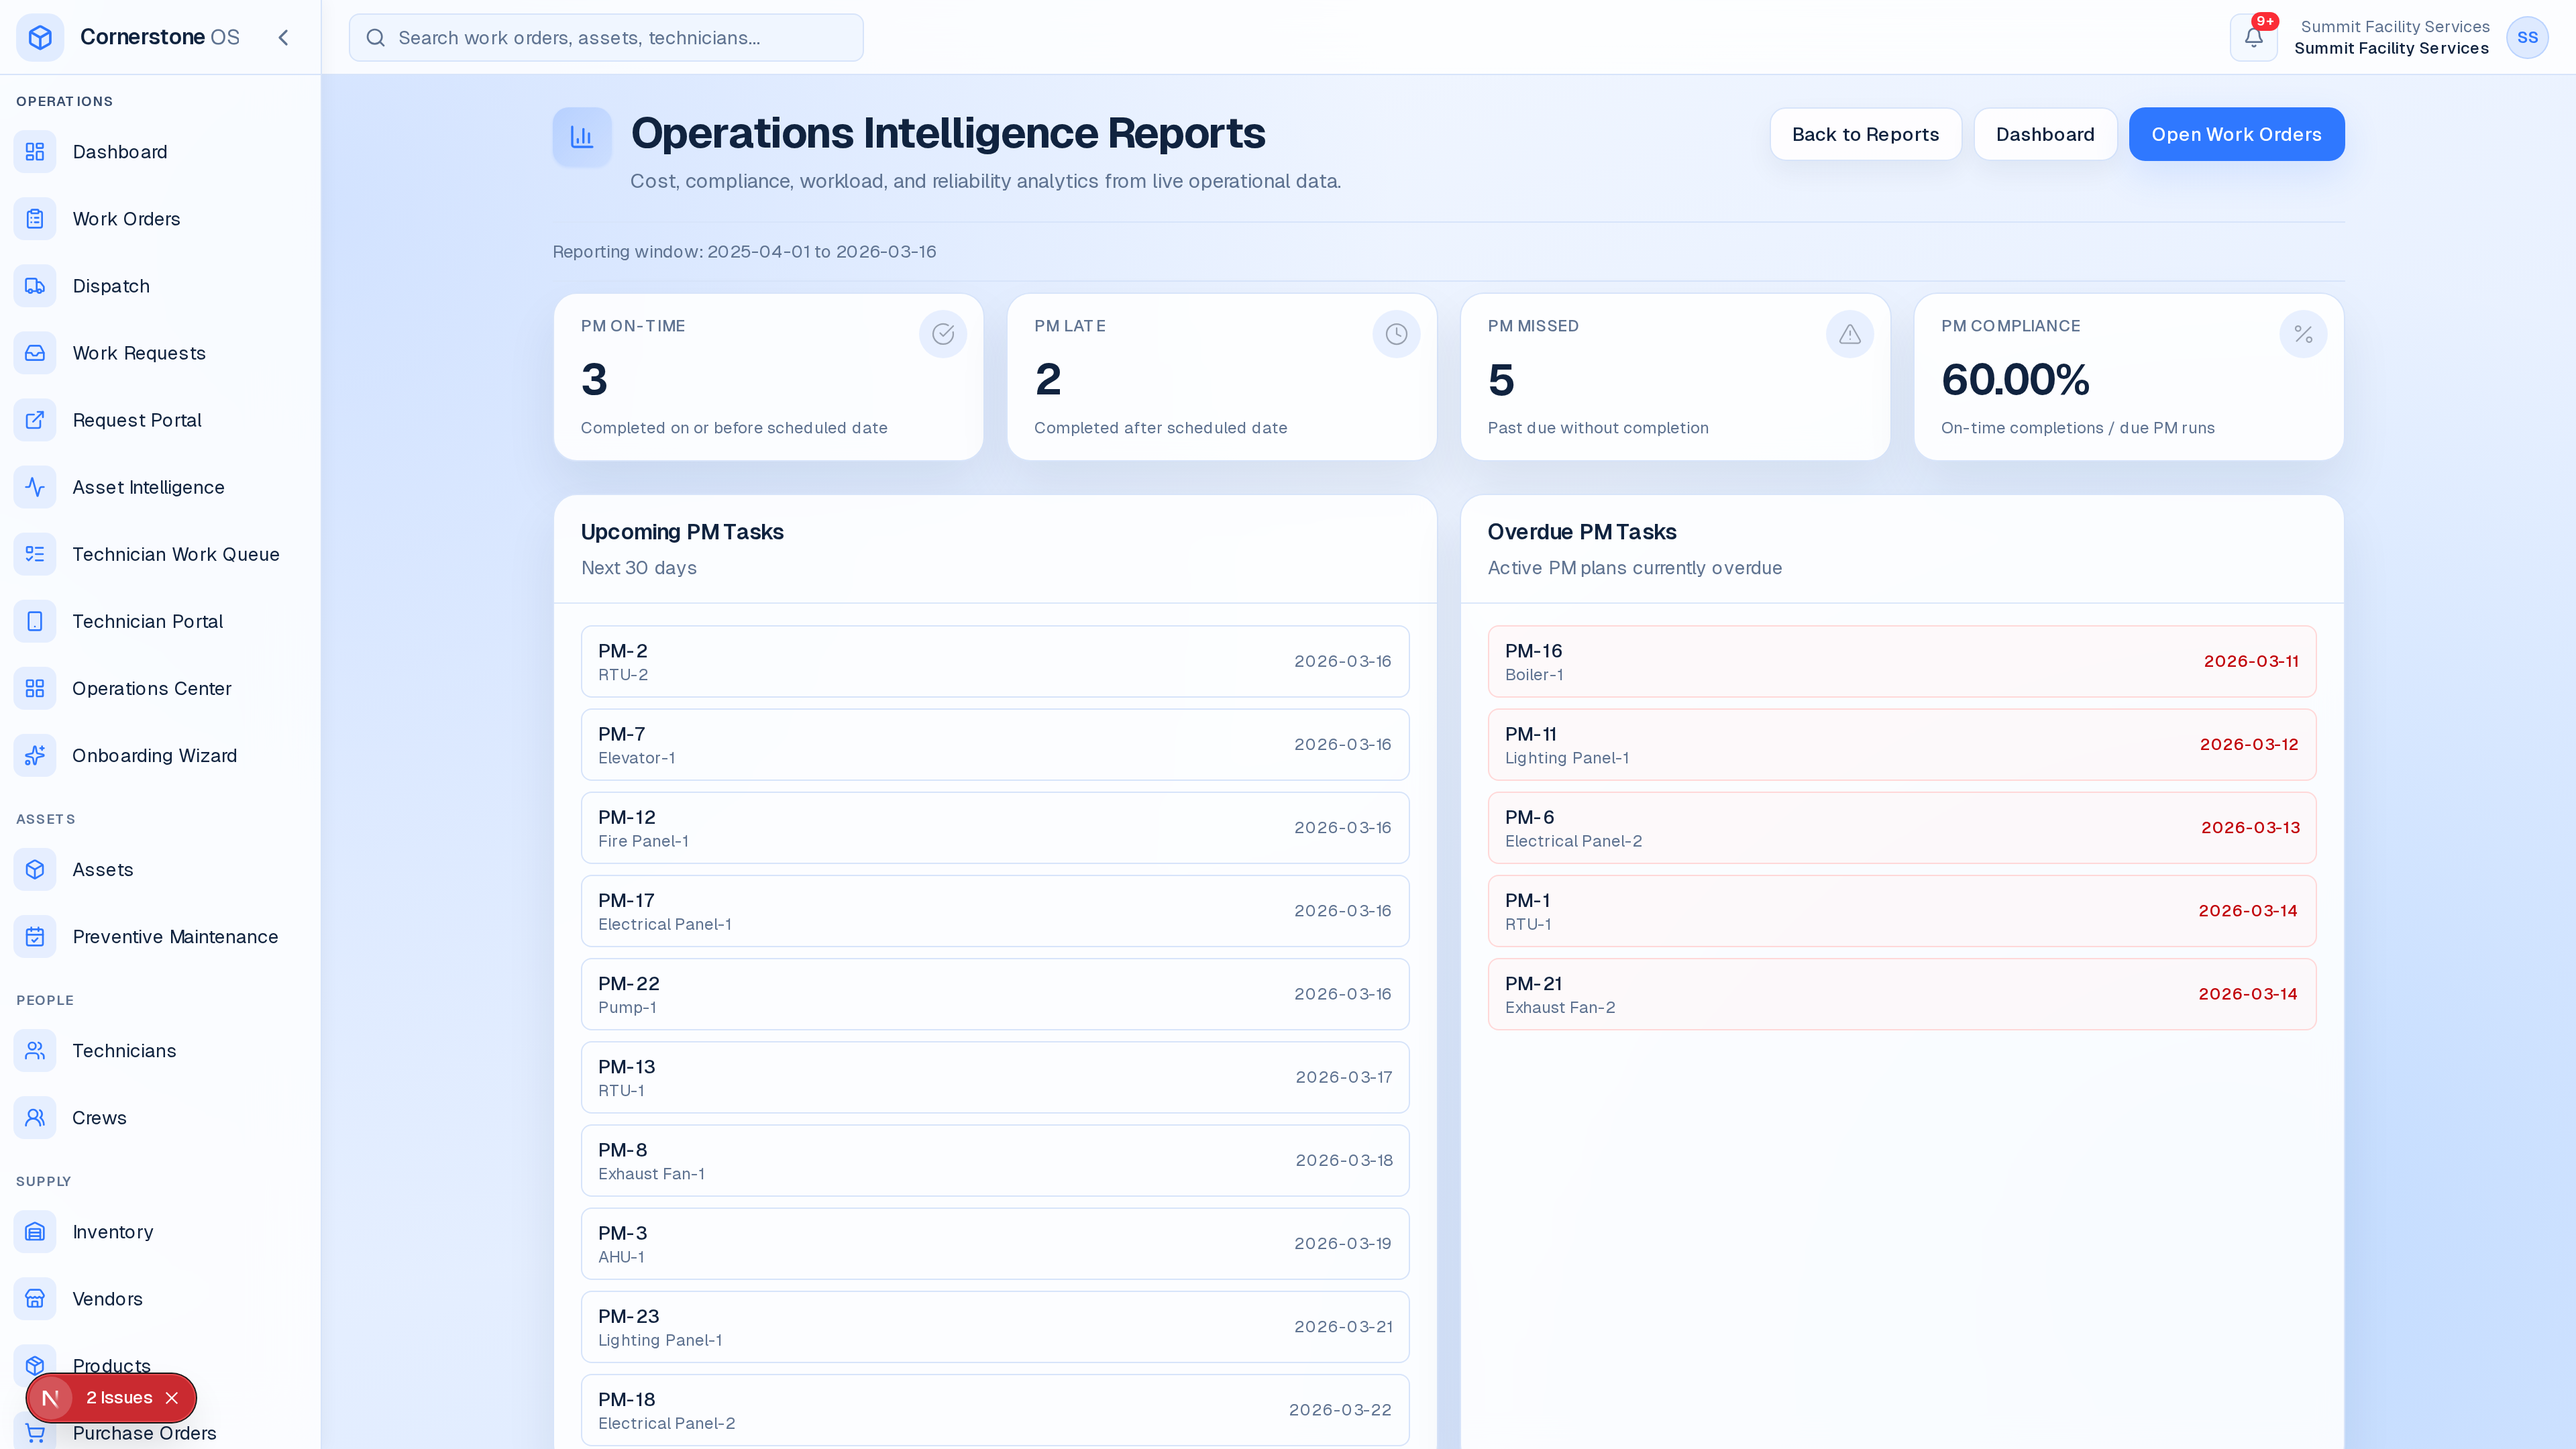
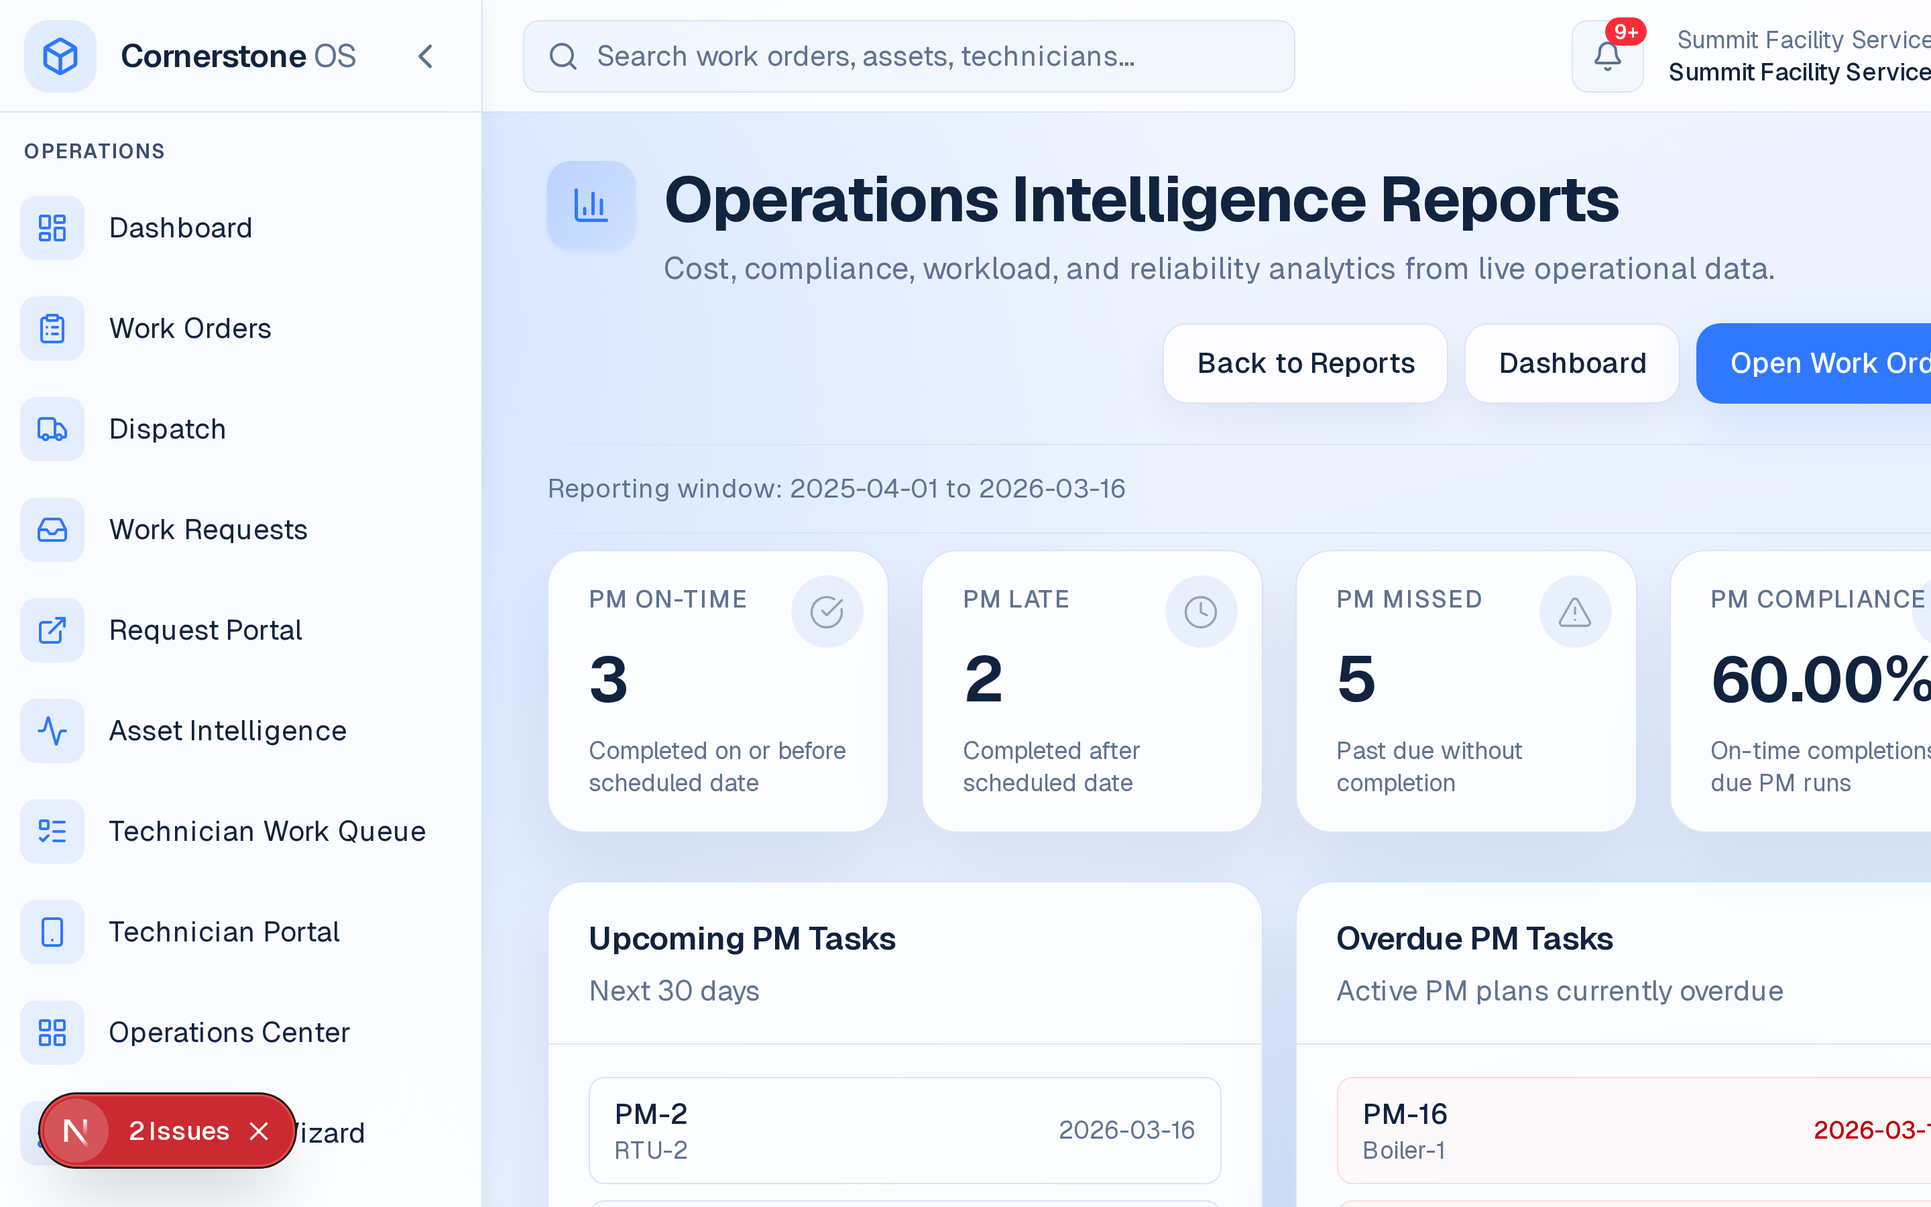
feat: zoom in marketing screenshots for readability
Change Playwright capture from 1920x1080 to 1440x900 + CSS zoom 1.5x.
Net effect: product UI fills ~83% of the frame vs ~42% before, making
text 2x larger when screenshots are displayed in marketing page containers.

New PNG dimensions: 2880x1800 (was 3840x2160).

diff --git a/scripts/generateMarketingScreenshots.ts b/scripts/generateMarketingScreenshots.ts
@@ -46,7 +46,12 @@ const OUTPUT_DIR = path.resolve(
   process.env.SCREENSHOT_OUTPUT_DIR ?? "public/screenshots"
 );
 
-const VIEWPORT = { width: 1920, height: 1080 };
+// Smaller viewport + CSS zoom means the app UI fills more of the frame and
+// appears readable when scaled into marketing page containers (~800px wide).
+// At 1440×900 + 1.5× zoom: effective 960px content in 1440px frame →
+// ~83% scale in the marketing card vs ~42% at 1920×1080 (≈2× more readable).
+const VIEWPORT = { width: 1440, height: 900 };
+const CSS_ZOOM = 1.5;
 
 // ─── Screenshot definitions ───────────────────────────────────────────────────
 
@@ -184,9 +189,9 @@ function screenshotUrl(route: string): string {
   return `${BASE_URL}${route}${sep}screenshotMode=true`;
 }
 
-/** Suppress all tours and modals via localStorage. */
+/** Suppress all tours/modals via localStorage and apply CSS zoom for readability. */
 async function setScreenshotModeStorage(page: Page) {
-  await page.evaluate(() => {
+  await page.evaluate((zoom) => {
     // Disable new guided product tour
     localStorage.setItem("cornerstone_demo_tour_completed", "1");
     // Signal app-level screenshot mode flag
@@ -195,7 +200,10 @@ async function setScreenshotModeStorage(page: Page) {
     localStorage.setItem("sidebar-collapsed", "0");
     // Mark old demo welcome as shown
     sessionStorage.setItem("demo_welcome_shown", "1");
-  });
+    // Zoom in so product UI is readable in marketing page containers.
+    // CSS zoom scales the entire page (including fixed sidebar/topbar) in Chrome.
+    document.documentElement.style.zoom = String(zoom);
+  }, CSS_ZOOM);
 }
 
 /** Expand the sidebar to ensure nav items are visible in screenshots. */
@@ -379,7 +387,12 @@ async function main() {
         path: outPath,
         fullPage: false,
         type: "png",
-        clip: { x: 0, y: 0, width: VIEWPORT.width, height: VIEWPORT.height },
+        clip: {
+          x: 0,
+          y: 0,
+          width: VIEWPORT.width,
+          height: VIEWPORT.height,
+        },
       });
 
       log(`     ✓ Saved ${spec.filename}`);
